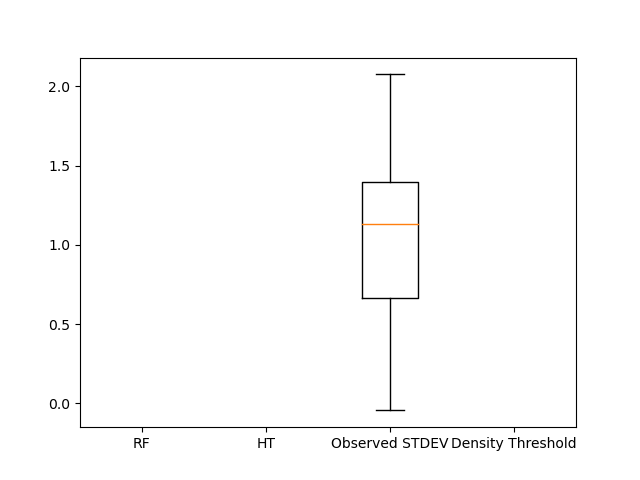
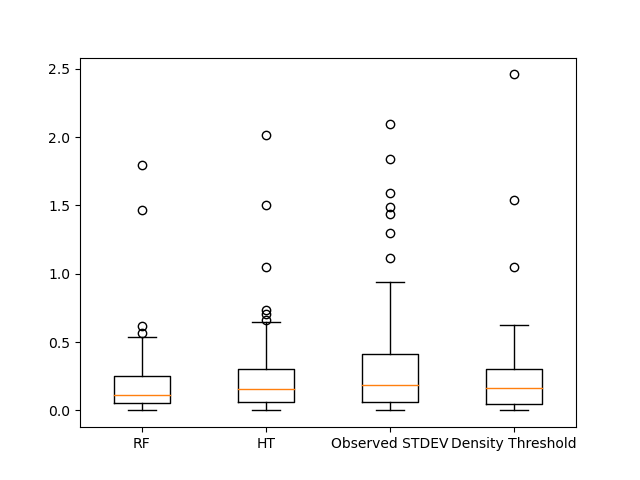
cleanup time

diff --git a/diagnose.py b/diagnose.py
@@ -1,5 +1,6 @@
 import json
 import matplotlib.pyplot as plt
+import random
 import matplotlib
 import numpy as np
 import pandas as pd
@@ -149,11 +150,17 @@ def ht_features_reduced(profile,names):
         h = HolteAndTalley(profile["pressures"],profile["temperatures"],profile["salinities"],profile["densities"])
         densfactors = [ h.density.MLTFITDensityPressure, h.density.DThresholdPressure] 
         tempfactors =[h.temp.TTMLDPressure]
-        return [np.abs(lat)*5] + tempfactors + densfactors
+        return tempfactors + densfactors
 
+def findOutliers(names):
+    for p in names.values():
+        depths=np.asarray(p["depths"])
+        divergent = np.asarray(p["identifierNames"])[np.abs(depths-np.mean(depths))>50]
+        print(divergent)
 
 with open('../MLDIdentifierTool/json_generator/profiles.json') as f:
     profiles = json.load(f)
+    print(findOutliers(names))
     doy = []
     lat = []
     lon = []
@@ -193,7 +200,7 @@ dec_tree.fit(X,y)
 ### REALLY GOOD FOR SOME REASON
 #regr = RandomForestRegressor(random_state=0, oob_score=True)
 #Next
-regr = RandomForestRegressor(n_jobs=5,max_depth=5)
+regr = RandomForestRegressor(n_jobs=5,max_depth=20)
 #regr = MLPRegressor(max_iter=100000,hidden_layer_sizes=(50,20,5))
 #regr = GradientBoostingRegressor()
 regr.fit(X,y)
@@ -211,8 +218,47 @@ print("most important feature:" , np.asarray(feature_names)[np.argmax(importance
 forest_importances = pd.Series(importances, index=feature_names)
 fig, ax = plt.subplots(figsize=(8, 6))
 forest_importances.plot.bar(ax=ax)
-plt.savefig("feaure_importance.png")
+plt.savefig("feature_importance.png")
 plt.close()
+# A sensitive one gdfcdfs/jma/2902997/profiles/R2902997_034.nc
+# gdfcdfs/aoml/2903126/profiles/R2903126_176.nc
+
+with open('../MLDIdentifierTool/json_generator/profiles.json') as f:
+    profiles = json.load(f)
+    ht_error = []
+    regr_error = []
+    thresh_error = []
+    test_profiles = []
+    for profile in np.asarray(profiles)[~chosenprofiles]:
+        test_profiles.append(profile)
+    profile = random.choice(test_profiles)
+    plt.close()
+    plt.plot(profile["pressures"],profile["temperatures"])
+    plt.savefig("random_profile_choice.png")
+    plt.close()
+    n_iter = 100
+    orig_pressures = profile["pressures"]
+    orig_salinities = profile["salinities"]
+    orig_temperatures = profile["temperatures"]
+    print(profile["name"])
+    for l in range(n_iter):
+        print(l)
+        depths = names[profile["name"]]["depths"]
+        profile["temperatures"] = np.asarray(orig_temperatures) + np.random.uniform(-0.002,0.002,size=len(orig_temperatures))
+        profile["salinities"] = np.asarray(orig_salinities) + np.random.uniform(-0.01,0.01,size=len(orig_salinities))
+        h = HolteAndTalley(profile["pressures"],profile["temperatures"],profile["salinities"],profile["densities"])
+        X = np.asarray([ht_features_reduced(profile,names)])
+        regr_out = np.round(regr.predict(X)[0])
+        ht_error.append(h.densityMLD)
+        thresh_error.append( h.density.DThresholdPressure)
+        regr_error.append(regr_out)
+        print(h.density.debug)
+    plt.close()
+    plt.hist(np.asarray(ht_error)-np.mean(ht_error),color="blue",alpha=0.5)
+    plt.hist(np.asarray(regr_error)-np.mean(regr_error),color="red",alpha=0.5)
+    plt.hist(np.asarray(thresh_error)-np.mean(thresh_error),color="orange",alpha=0.5)
+    plt.savefig("sensitivity.png")
+    plt.close()
 #y_pred_random=regr.predict(X_test)
 #print("oob score", regr.oob_score_)
 #print("RMSE: ",np.sqrt(np.mean((y_test-y_pred_random)**2)))
@@ -234,6 +280,7 @@ if True:
         for profile in np.asarray(profiles)[~chosenprofiles]:
             if profile["name"] in names.keys():
                 depths = names[profile["name"]]["depths"]
+                depths = names[profile["name"]]["depths"]
                 depths=np.asarray(depths)
                 if len(depths)>0:
                     h = HolteAndTalley(profile["pressures"],profile["temperatures"],profile["salinities"],profile["densities"])
@@ -247,18 +294,20 @@ if True:
                     for d in depths:
                         denschoose.append(g(d))
                     try:
-                        plt.close()
-                        plt.plot(np.asarray(profile["densities"])[mask],np.asarray(profile["pressures"])[mask],color="black")
-                        plt.scatter(denschoose,depths,color="red",label="chosen",marker="+")
-                        plt.axhline(regr_out)
-                        plt.scatter(g(h.densityMLD),h.densityMLD,color="green", label="HT",marker="s")
-                        plt.scatter(g(h.density.DThresholdPressure),h.density.DThresholdPressure,color="orange",marker="_",label="Dthresh")
-                        plt.scatter(g(np.mean(depths)),np.mean(depths),color="black",marker="o",label="chosen mean")
-                        plt.gca().invert_yaxis()
-                        plt.ylim(0,maxpres)
-                        plt.legend()
-                        plt.savefig('./pics/{}-{}.png'.format(basename(profile["name"]),abs(int(h.densityMLD-np.mean(depths)))))
-                        plt.close()
+                        if np.sum(np.abs(depths-np.mean(depths))>50) > 1:
+                            plt.close()
+                            plt.plot(np.asarray(profile["densities"])[mask],np.asarray(profile["pressures"])[mask],color="black")
+                            plt.scatter(denschoose,depths,color="red",label="chosen",marker="+")
+                            plt.axhline(regr_out)
+                            plt.scatter(g(h.densityMLD),h.densityMLD,color="green", label="HT",marker="s")
+                            plt.scatter(g(h.density.DThresholdPressure),h.density.DThresholdPressure,color="orange",marker="_",label="Dthresh")
+                            plt.scatter(g(np.mean(depths)),np.mean(depths),color="black",marker="o",label="chosen mean")
+                            plt.gca().invert_yaxis()
+                            plt.ylim(0,maxpres+50)
+                            plt.legend()
+                            plt.title(profile["name"])
+                            plt.savefig('./pics/{}-{}.png'.format(basename(profile["name"]),abs(int(h.densityMLD-np.mean(depths)))))
+                            plt.close()
                     except:
                         print("zoped")
 
@@ -290,35 +339,13 @@ if True:
     hta[hta<0.0001] = 0.0001
     crit[crit<0.0001] = 0.0001
     deca[deca<0.0001] = 0.0001
-    print(crit)
-    #plt.hist(dec_error,label="dec",alpha=0.5,color="red")
-    #plt.hist(ht_error,label="ht",alpha=0.5,color="yellow")
-    #plt.hist(crit_error,label="crit",alpha=0.5,color="blue")
-    #plt.hist(range(len(obs_std)),obs_std,c="blue")
-    #plt.scatter(obs_std,dec_error,c="red",label="dec")
-    #plt.scatter(obs_std,ht_error,c="blue",label="ht")
-    #plt.scatter(obs_std,crit_error,c="yellow",label="crit")
-    #plt.plot(obs_std,obs_std,c="orange",label="obs")
-    #plt.legend()
-    ## mean error from mean
-    #print(" mean error from mean")
-    #print("dec mean",np.nanmean(dec_error[0]), " dec max ", np.nanmax(dec_error[0]))
-    #print("ht mean",np.nanmean(ht_error[0]), " dht max ", np.nanmax(ht_error[0]))
-    #print("crit mean",np.nanmean(crit_error[0]), " crit max ", np.nanmax(crit_error[0]))
-    #print("obs stdev mean",np.nanmean(obs_std), " dec max ", np.nanmax(obs_std))
-    ### mean error
-    #print(" mean error")
-    #print("dec mean",np.nanmean(dec_error[1]), " dec max ", np.nanmax(dec_error[1]))
-    #print("ht mean",np.nanmean(ht_error[1]), " dht max ", np.nanmax(ht_error[1]))
-    #print("crit mean",np.nanmean(crit_error[1]), " crit max ", np.nanmax(crit_error[1]))
-    #print("obs stdev mean",np.nanmean(obs_std), " dec max ", np.nanmax(obs_std))
-    #plt.savefig('errorcomp.png')
-    error = np.log10(np.asarray([deca,hta,obs_std,crit]))
+    error = np.asarray([deca,hta,obs_std,crit])
+    plt.close()
     plt.boxplot(error.T,labels=["RF","HT","Observed STDEV","Density Threshold"])
     plt.savefig('errordist.png')
     plt.close()
 
-if True:
+if False:
     with open('../MLDIdentifierTool/json_generator/profiles.json') as f:
         profiles = json.load(f)
         ht_error = []
@@ -326,6 +353,7 @@ if True:
         regr_error = []
         obs_error=[]
         lats= []
+        means=[]
         for profile in np.asarray(profiles)[~chosenprofiles]:
             if profile["name"] in names.keys():
                 depths = names[profile["name"]]["depths"]
@@ -340,11 +368,10 @@ if True:
                     ht_error.append(h.densityMLD-np.mean(depths))
                     regr_error.append(regr_out-np.mean(depths))
                     obs_error.append(np.std(depths))
+                    means.append(np.nanmean(depths))
         plt.close()
-        error = np.log10(np.asarray([regr_error,ht_error,obs_error,crit_error]))
+        error = np.asarray([regr_error,ht_error,obs_error,crit_error])
         plt.boxplot(error.T,labels=["RF","HT","Observed STDEV","Density Threshold"])
-        plt.savefig('errordist.png')
-        plt.xlim(-100,100)
         plt.savefig("error_bias.png")
         plt.close()
         plt.scatter(lats,regr_error,color="blue")
@@ -353,6 +380,8 @@ if True:
         plt.scatter(lats,obs_error,color="black")
         plt.savefig("lat_error.png")
         plt.close()
+        plt.scatter(means,obs_error,color="black")
+        plt.savefig("errorvssize.png")
 
 if False:
     with open('../MLDIdentifierTool/json_generator/profiles.json') as f:
@@ -361,24 +390,38 @@ if False:
         obs_std = []
         lats = []
         for profile in np.asarray(profiles):
-            if profile["name"] in names.keys() and np.abs(profile["lat"])<50:
+            if profile["name"] in names.keys():
                 depths = names[profile["name"]]["depths"]
                 depths=np.asarray(depths)
                 if len(depths)>0:
+                    lats.append(profile["lat"])
                     h = HolteAndTalley(profile["pressures"],profile["temperatures"],profile["salinities"],profile["densities"])
-                    densfactors = [h.density.DMinPressure, h.density.MLTFITDensityPressure, h.density.DThresholdPressure, h.density.DGradientThresholdPressure ] 
+                    densfactors = [h.density.DMinPressure, h.density.MLTFITDensityPressure, h.density.DThresholdPressure, h.density.DGradientThresholdPressure,h.densityMLD] 
                     salfactors = [h.salinity.SGradientMaxPressure,h.salinity.MLTFITSalinityPressure,h.salinity.intrusionDepthPressure]
-                    tempfactors =[ h.temp.TMaxPressure, h.temp.MLTFITPressure, h.temp.TTMLDPressure, h.temp.DTMPressure, h.temp.TDTMPressure]
+                    tempfactors =[ h.temp.TMaxPressure, h.temp.MLTFITPressure, h.temp.TTMLDPressure, h.temp.DTMPressure, h.temp.TDTMPressure,h.tempMLD]
                     htfactors = np.asarray(densfactors + salfactors + tempfactors)
                     obs_std.append(np.std(depths)/np.nanmean(depths))
                     error.append((htfactors-np.nanmean(depths))/np.nanmean(depths))
 
-        names = ["dminpressure","mltfitdens","dthreshold","dgradientthreshold","sgradientmax","mltfitsalinity","intrusion","tmax","mltfit","tempthreshold","dtm","tdtmp"]
+        names = ["dminpressure","mltfitdens","dthreshold","dgradientthreshold","ht-dens","sgradientmax","mltfitsalinity","intrusion","tmax","mltfit","tempthreshold","dtm","tdtmp","ht-temp"]
+        lats = np.asarray(lats)
         error = np.asarray(error)
+        error = np.sqrt(error**2)
+        lowlatitudeerror = np.asarray(error)[lats<50,:]
+        highlatitudeerror = np.asarray(error)[lats>=50,:]
+        lowlatitudeerror[lowlatitudeerror<0.0001]=0.0001
+        highlatitudeerror[highlatitudeerror<0.0001]=0.0001
+        print(lowlatitudeerror.shape)
+        print(highlatitudeerror.shape)
         plt.close()
         print(np.mean(obs_std))
-        fig, ax = plt.subplots(figsize=(16, 12))
-        ax.boxplot(np.log10(np.sqrt(error**2)),labels=names)
+        fig, (ax1,ax2) = plt.subplots(1,2,figsize=(20, 15))
+        ax1.boxplot(np.log10(lowlatitudeerror),labels=names)
+        ax2.boxplot(np.log10(highlatitudeerror),labels=names)
+        #for tick in ax1.get_xticklabels():
+            #tick.set_rotation(45)
+        ax1.set_xticklabels(names, rotation=45, ha='right')
+        ax2.set_xticklabels(names, rotation=45, ha='right')
         #for l in range(error.T.shape[0]):
             #print(names[l],int(np.nanmean(np.sqrt(error.T[l]**2))),int(np.std(np.sqrt(error.T[l]**2))))
         plt.savefig("ht_error.png")
